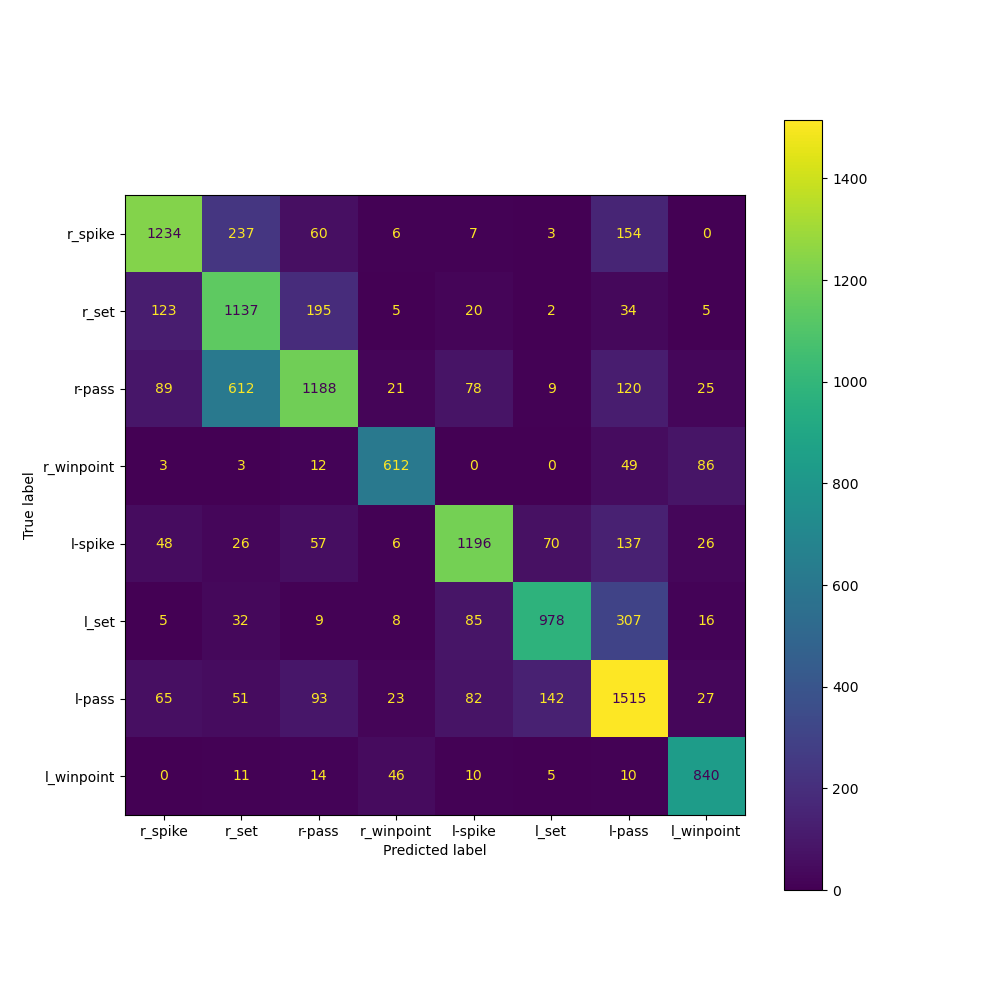
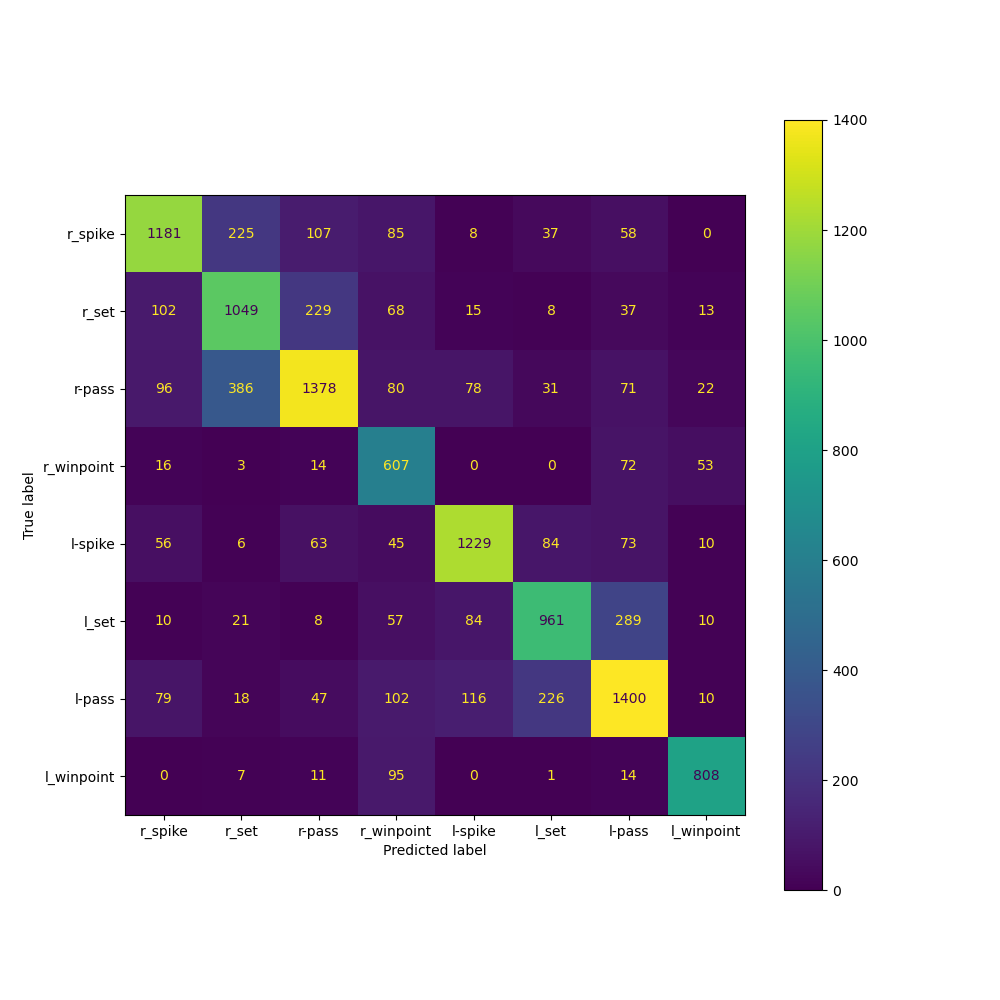
Add Baseline1 model and update training script to include test dataset evaluation. Update log files and confusion matrix images.

diff --git a/trainers/train_b1.py b/trainers/train_b1.py
@@ -5,10 +5,10 @@ from torchvision import transforms
 
 from constants import group_activities
 from datasets.group_dataset import GroupDataset
-from models.group_classifier import GroupClassifier
+from models.baseline1 import Baseline1
 from utils.data_utils import load_annotations
 from utils.logger import get_logger
-from utils.train_utils import train
+from utils.train_utils import evaluate, train
 
 logger = get_logger("b1.log")
 
@@ -40,7 +40,12 @@ validation_dataset = GroupDataset(videos_dir, annotations, "val", transform=tran
 validation_data_loader = DataLoader(validation_dataset, batch_size, shuffle=False)
 logger.info(f"Validation dataset size: {len(validation_dataset)}")
 
-model = GroupClassifier(len(group_activities)).to(device)
+logger.info("Loading Test dataset...")
+test_dataset = GroupDataset(videos_dir, annotations, "test", transform=transform)
+test_data_loader = DataLoader(test_dataset, batch_size, shuffle=False)
+logger.info(f"Test dataset size: {len(test_dataset)}")
+
+model = Baseline1(len(group_activities)).to(device)
 criterion = nn.CrossEntropyLoss()
 optimizer = optim.AdamW(model.parameters(), lr=0.0001)
 train(
@@ -54,3 +59,5 @@ train(
     "b1",
     logger,
 )
+
+evaluate(model, criterion, test_data_loader, logger)

diff --git a/utils/train_utils.py b/utils/train_utils.py
@@ -111,6 +111,7 @@ def evaluate_epoch(
 
 def train(model, criterion, optimizer, train_data_loader, validation_data_loader, epochs, display_labels, name, logger):
     logger.info("Start training...")
+    # TODO: LR Scheduler
 
     train_accuracies = []
     train_losses = []
@@ -150,3 +151,9 @@ def train(model, criterion, optimizer, train_data_loader, validation_data_loader
     logger.info(f"Model weights saved to {path}")
     plot_confusion_matrix(all_labels, all_predictions, val_all_labels, val_all_predictions, display_labels, name)
     plot_loss_accuracy(train_losses, train_accuracies, val_losses, val_accuracies, name)
+
+
+def evaluate(model, criterion, test_data_loader, logger):
+    test_accuracy, test_loss, test_f1 = evaluate_epoch(model, test_data_loader, criterion, [], [])
+
+    logger.info(f"Test Loss: {test_loss}, Test Accuracy: {test_accuracy:.2f}%, Test F1 Score: {test_f1:.2f}")

diff --git a/models/baseline1.py b/models/baseline1.py
@@ -1,0 +1,14 @@
+from torch import nn
+from torchvision import models
+from torchvision.models import ResNet50_Weights
+
+
+class Baseline1(nn.Module):
+    def __init__(self, num_classes):
+        super().__init__()
+        self.resnet = models.resnet50(weights=ResNet50_Weights.DEFAULT)
+        num_features = self.resnet.fc.in_features
+        self.resnet.fc = nn.Linear(num_features, num_classes)
+
+    def forward(self, x):
+        return self.resnet(x)
